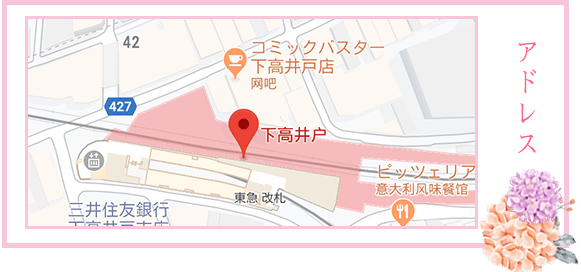
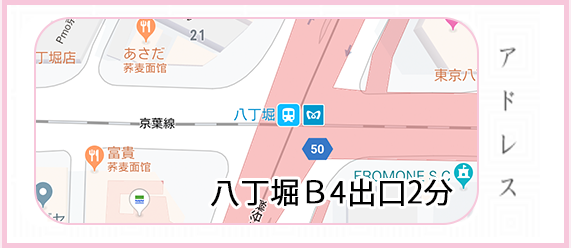
ss
ss

diff --git a/recruit.html b/recruit.html
@@ -1,1 +1,1 @@
-<!DOCTYPE html><html><head><meta charset="utf-8"/><title>嬢熱in下高井戸駅北口2分リラクセーション　マッサージ　メンズエステ　リンパマッサージ【嬢熱】</title><meta name="google-site-verification" content="FlI9ERt2Io3cP8SMRDE0Ayb-Wn86Xue2_c63o4dStGA"/><meta name="keywords" content="嬢熱下高井戸駅北口2分エステ,嬢熱アジア，アロママッサージ,精力回復,ストレス解消,アロマオイル,ボディケア,フットケア"/><meta name="description" content="下高井戸駅北口2分本格アロママッサージ，嬢熱でございます，オイルマッサージで精力を増強します，仕事のストレスを解消いただきます。"/><meta name="viewport" content="width=device-width, initial-scale=1, minimum-scale=1, maximum-scale=1"/><link rel="stylesheet" href="swiper.min.css"/><link rel="stylesheet" href="css/nav_top.css"/></head><body class="body"><div class="nav"><div class="telephone"><a href="tel://07031062233">Tel:070-3106-2233</a></div><div class="navimg" id="nav"></div></div><div class="navLong"><div class="navLongLogo"></div><a href="index.html"><div class="navLong1">ホーム</div></a><a href="system.html"><div class="navLong1">システム</div></a><a href="girl.html"><div class="navLong1">スタッフ</div></a><a href="room.html"><div class="navLong1">店内風景</div></a><a href="access.html"><div class="navLong1">アクセス  </div></a><a href="recruit.html"><div class="navLong1">リクルート</div></a><div class="navLong2"><a href="tel://07031062233">Tel:070-3106-2233</a></div></div><div class="top"><div class="logo"></div><div class="tel" href="tel://09091546417"></div></div><div class="focus" id="focus"></div><div class="navLage"><div class="navButton"><a href="index.html"><img src="img/images/nav_01.png"/></a></div><div class="navButton"><a href="system.html"><img src="img/images/nav_02.png"/></a></div><div class="navButton"><a href="girl.html"><img src="img/images/nav_03.png"/></a></div><div class="navButton"><a href="room.html"><img src="img/images/nav_04.png"/></a></div><div class="navButton"><a href="access.html"><img src="img/images/nav_05.png"/></a></div><div class="navButton"><a href="recruit.html"><img src="img/images/nav_06.png"/></a></div></div></body></html><link rel="stylesheet" href="css/4page.css"/><div class="Titles"><div class="recruittitle"></div></div><div class="recruit"><div><p>業種&nbsp;</p><p>リラクセーション</p></div><div style="height: 115px;"><p>給与&nbsp;</p><p style="height: 80px;">日払い OK!<br/>※高額保証制度有り<br/>ボーナス制度有り</p></div><div><p>時間&nbsp;</p><p>12:00～Last</p></div><div><p>資格&nbsp;</p><p>18歳～30歳位まで</p></div><div><p>勤務日&nbsp;</p><p>自由</p></div><div><p>応募&nbsp;</p><p>お電話の上、お気軽にご来店下さい。</p></div><div style="height: 136px;"><p>待遇&nbsp;</p><p style="height: 103px;">完全全額日払制、高額保証制度有り、個室待機制(TV・冷蔵庫・シャワー完備)、衛生管理万全、ノルマ・罰金一切なし、店内見学&amp;1日体験入店大歓迎</p></div><div><p>電話&nbsp;</p><p>07031062233</p></div></div><div class="endimg"></div><div class="end"><div class="logo"></div><div class="tel"><a href="tel://09091546417"></a></div></div><div class="footing"></div><script src="swiper.min.js"></script><script src="https://cdn.staticfile.org/jquery/1.10.2/jquery.min.js"></script><script src="js/index.js"></script>
+<!DOCTYPE html><html><head><meta charset="utf-8"/><title>嬢熱in八丁堀Ｂ4出口2分リラクセーション　マッサージ　メンズエステ　リンパマッサージ【嬢熱】</title><meta name="keywords" content="嬢熱八丁堀Ｂ4出口2分エステ,嬢熱アジア，アロママッサージ,精力回復,ストレス解消,アロマオイル,ボディケア,フットケア"/><meta name="description" content="八丁堀Ｂ4出口2分本格アロママッサージ，嬢熱でございます，オイルマッサージで精力を増強します，仕事のストレスを解消いただきます。"/><meta name="viewport" content="width=device-width, initial-scale=1, minimum-scale=1, maximum-scale=1"/><link rel="stylesheet" href="swiper.min.css"/><link rel="stylesheet" href="css/nav_top.css"/></head><body class="body"><div class="nav"><div class="telephone"><a href="tel://09091546417">Tel:090-9154-6417</a></div><div class="navimg" id="nav"></div></div><div class="navLong"><div class="navLongLogo"></div><a href="index.html"><div class="navLong1">ホーム</div></a><a href="system.html"><div class="navLong1">システム</div></a><a href="girl.html"><div class="navLong1">スタッフ</div></a><a href="room.html"><div class="navLong1">店内風景</div></a><a href="access.html"><div class="navLong1">アクセス  </div></a><a href="recruit.html"><div class="navLong1">リクルート</div></a><div class="navLong2"><a href="tel://09091546417">Tel:090-9154-6417</a></div></div><div class="top"><div class="logo"></div><div class="tel" href="tel://09091546417"></div></div><div class="focus" id="focus"></div><div class="navLage"><div class="navButton"><a href="index.html"><img src="img/images/nav_01.png"/></a></div><div class="navButton"><a href="system.html"><img src="img/images/nav_02.png"/></a></div><div class="navButton"><a href="girl.html"><img src="img/images/nav_03.png"/></a></div><div class="navButton"><a href="room.html"><img src="img/images/nav_04.png"/></a></div><div class="navButton"><a href="access.html"><img src="img/images/nav_05.png"/></a></div><div class="navButton"><a href="recruit.html"><img src="img/images/nav_06.png"/></a></div></div></body></html><link rel="stylesheet" href="css/4page.css"/><div class="Titles"><div class="recruittitle"></div></div><div class="recruit"><div><p>業種&nbsp;</p><p>リラクセーション</p></div><div style="height: 115px;"><p>給与&nbsp;</p><p style="height: 80px;">日払い OK!<br/>※高額保証制度有り<br/>ボーナス制度有り</p></div><div><p>時間&nbsp;</p><p>12:00～Last</p></div><div><p>資格&nbsp;</p><p>18歳～30歳位まで</p></div><div><p>勤務日&nbsp;</p><p>自由</p></div><div><p>勤務地&nbsp;</p><p></p></div><div><p>応募&nbsp;</p><p>お電話の上、お気軽にご来店下さい。</p></div><div style="height: 136px;"><p>待遇&nbsp;</p><p style="height: 103px;">完全全額日払制、高額保証制度有り、個室待機制(TV・冷蔵庫・シャワー完備)、衛生管理万全、ノルマ・罰金一切なし、店内見学&amp;1日体験入店大歓迎</p></div><div><p>電話&nbsp;</p><p>09091546417</p></div></div><div class="endimg"></div><div class="end"><div class="logo"></div><div class="tel"><a href="tel://09091546417"></a></div></div><div class="footing"></div><script src="swiper.min.js"></script><script src="https://cdn.staticfile.org/jquery/1.10.2/jquery.min.js"></script><script src="js/index.js"></script>

diff --git a/access.html b/access.html
@@ -1,1 +1,1 @@
-<!DOCTYPE html><html><head><meta charset="utf-8"/><title>嬢熱in下高井戸駅北口2分リラクセーション　マッサージ　メンズエステ　リンパマッサージ【嬢熱】</title><meta name="google-site-verification" content="FlI9ERt2Io3cP8SMRDE0Ayb-Wn86Xue2_c63o4dStGA"/><meta name="keywords" content="嬢熱下高井戸駅北口2分エステ,嬢熱アジア，アロママッサージ,精力回復,ストレス解消,アロマオイル,ボディケア,フットケア"/><meta name="description" content="下高井戸駅北口2分本格アロママッサージ，嬢熱でございます，オイルマッサージで精力を増強します，仕事のストレスを解消いただきます。"/><meta name="viewport" content="width=device-width, initial-scale=1, minimum-scale=1, maximum-scale=1"/><link rel="stylesheet" href="swiper.min.css"/><link rel="stylesheet" href="css/nav_top.css"/></head><body class="body"><div class="nav"><div class="telephone"><a href="tel://07031062233">Tel:070-3106-2233</a></div><div class="navimg" id="nav"></div></div><div class="navLong"><div class="navLongLogo"></div><a href="index.html"><div class="navLong1">ホーム</div></a><a href="system.html"><div class="navLong1">システム</div></a><a href="girl.html"><div class="navLong1">スタッフ</div></a><a href="room.html"><div class="navLong1">店内風景</div></a><a href="access.html"><div class="navLong1">アクセス  </div></a><a href="recruit.html"><div class="navLong1">リクルート</div></a><div class="navLong2"><a href="tel://07031062233">Tel:070-3106-2233</a></div></div><div class="top"><div class="logo"></div><div class="tel" href="tel://09091546417"></div></div><div class="focus" id="focus"></div><div class="navLage"><div class="navButton"><a href="index.html"><img src="img/images/nav_01.png"/></a></div><div class="navButton"><a href="system.html"><img src="img/images/nav_02.png"/></a></div><div class="navButton"><a href="girl.html"><img src="img/images/nav_03.png"/></a></div><div class="navButton"><a href="room.html"><img src="img/images/nav_04.png"/></a></div><div class="navButton"><a href="access.html"><img src="img/images/nav_05.png"/></a></div><div class="navButton"><a href="recruit.html"><img src="img/images/nav_06.png"/></a></div></div></body></html><link rel="stylesheet" href="css/4page.css"/><div class="Titles"><div class="accesstitle"></div></div><div class="access"><iframe src="https://www.google.com/maps/embed?pb=!1m18!1m12!1m3!1d1243.4386909312175!2d139.64100223545765!3d35.6660746489538!2m3!1f0!2f0!3f0!3m2!1i1024!2i768!4f13.1!3m3!1m2!1s0x6018f3ae37d4e385%3A0xc7c374c9bcd1d2ac!2z5LiL6auY5LqV5oi3!5e0!3m2!1szh-CN!2sjp!4v1573663862458!5m2!1szh-CN!2sjp" width="600" height="450" frameborder="0" style="border:0;" allowfullscreen=""></iframe><div class="station">下高井戸駅北口2分</div><div class="teleph"><a href="tel://07031062233">070-3106-2233</a></div></div><div class="endimg"></div><div class="end"><div class="logo"></div><div class="tel"><a href="tel://09091546417"></a></div></div><div class="footing"></div><script src="swiper.min.js"></script><script src="https://cdn.staticfile.org/jquery/1.10.2/jquery.min.js"></script><script src="js/index.js"></script>
+<!DOCTYPE html><html><head><meta charset="utf-8"/><title>嬢熱in八丁堀Ｂ4出口2分リラクセーション　マッサージ　メンズエステ　リンパマッサージ【嬢熱】</title><meta name="keywords" content="嬢熱八丁堀Ｂ4出口2分エステ,嬢熱アジア，アロママッサージ,精力回復,ストレス解消,アロマオイル,ボディケア,フットケア"/><meta name="description" content="八丁堀Ｂ4出口2分本格アロママッサージ，嬢熱でございます，オイルマッサージで精力を増強します，仕事のストレスを解消いただきます。"/><meta name="viewport" content="width=device-width, initial-scale=1, minimum-scale=1, maximum-scale=1"/><link rel="stylesheet" href="swiper.min.css"/><link rel="stylesheet" href="css/nav_top.css"/></head><body class="body"><div class="nav"><div class="telephone"><a href="tel://09091546417">Tel:090-9154-6417</a></div><div class="navimg" id="nav"></div></div><div class="navLong"><div class="navLongLogo"></div><a href="index.html"><div class="navLong1">ホーム</div></a><a href="system.html"><div class="navLong1">システム</div></a><a href="girl.html"><div class="navLong1">スタッフ</div></a><a href="room.html"><div class="navLong1">店内風景</div></a><a href="access.html"><div class="navLong1">アクセス  </div></a><a href="recruit.html"><div class="navLong1">リクルート</div></a><div class="navLong2"><a href="tel://09091546417">Tel:090-9154-6417</a></div></div><div class="top"><div class="logo"></div><div class="tel" href="tel://09091546417"></div></div><div class="focus" id="focus"></div><div class="navLage"><div class="navButton"><a href="index.html"><img src="img/images/nav_01.png"/></a></div><div class="navButton"><a href="system.html"><img src="img/images/nav_02.png"/></a></div><div class="navButton"><a href="girl.html"><img src="img/images/nav_03.png"/></a></div><div class="navButton"><a href="room.html"><img src="img/images/nav_04.png"/></a></div><div class="navButton"><a href="access.html"><img src="img/images/nav_05.png"/></a></div><div class="navButton"><a href="recruit.html"><img src="img/images/nav_06.png"/></a></div></div></body></html><link rel="stylesheet" href="css/4page.css"/><div class="Titles"><div class="accesstitle"></div></div><div class="access"><iframe src="https://www.google.com/maps/embed?pb=!1m18!1m12!1m3!1d751.6524276269157!2d139.77641382490816!3d35.674501974517405!2m3!1f0!2f0!3f0!3m2!1i1024!2i768!4f13.1!3m3!1m2!1s0x6018895ecb07b951%3A0xf7218ea42414afb2!2z44CSMTA0LTAwMzIg5Lic5Lqs6YO95Lit5aSu5Yy65YWr5LiB5aCA!5e0!3m2!1szh-CN!2sjp!4v1575224652548!5m2!1szh-CN!2sjp" width="600" height="450" frameborder="0" style="border:0;" allowfullscreen=""></iframe><div class="station">八丁堀Ｂ4出口2分</div><div class="teleph"><a href="tel://09091546417">090-9154-6417</a></div></div><div class="endimg"></div><div class="end"><div class="logo"></div><div class="tel"><a href="tel://09091546417"></a></div></div><div class="footing"></div><script src="swiper.min.js"></script><script src="https://cdn.staticfile.org/jquery/1.10.2/jquery.min.js"></script><script src="js/index.js"></script>

diff --git a/index.html b/index.html
@@ -1,8 +1,6 @@
-<!DOCTYPE html><html><head><meta charset="utf-8"/><title>嬢熱in下高井戸駅北口2分リラクセーション　マッサージ　メンズエステ　リンパマッサージ【嬢熱】</title><meta name="google-site-verification" content="FlI9ERt2Io3cP8SMRDE0Ayb-Wn86Xue2_c63o4dStGA"/><meta name="keywords" content="嬢熱下高井戸駅北口2分エステ,嬢熱アジア，アロママッサージ,精力回復,ストレス解消,アロマオイル,ボディケア,フットケア"/><meta name="description" content="下高井戸駅北口2分本格アロママッサージ，嬢熱でございます，オイルマッサージで精力を増強します，仕事のストレスを解消いただきます。"/><meta name="viewport" content="width=device-width, initial-scale=1, minimum-scale=1, maximum-scale=1"/><link rel="stylesheet" href="swiper.min.css"/><link rel="stylesheet" href="css/nav_top.css"/></head><body class="body"><div class="nav"><div class="telephone"><a href="tel://07031062233">Tel:070-3106-2233</a></div><div class="navimg" id="nav"></div></div><div class="navLong"><div class="navLongLogo"></div><a href="index.html"><div class="navLong1">ホーム</div></a><a href="system.html"><div class="navLong1">システム</div></a><a href="girl.html"><div class="navLong1">スタッフ</div></a><a href="room.html"><div class="navLong1">店内風景</div></a><a href="access.html"><div class="navLong1">アクセス  </div></a><a href="recruit.html"><div class="navLong1">リクルート</div></a><div class="navLong2"><a href="tel://07031062233">Tel:070-3106-2233</a></div></div><div class="top"><div class="logo"></div><div class="tel" href="tel://09091546417"></div></div><div class="focus" id="focus"></div><div class="navLage"><div class="navButton"><a href="index.html"><img src="img/images/nav_01.png"/></a></div><div class="navButton"><a href="system.html"><img src="img/images/nav_02.png"/></a></div><div class="navButton"><a href="girl.html"><img src="img/images/nav_03.png"/></a></div><div class="navButton"><a href="room.html"><img src="img/images/nav_04.png"/></a></div><div class="navButton"><a href="access.html"><img src="img/images/nav_05.png"/></a></div><div class="navButton"><a href="recruit.html"><img src="img/images/nav_06.png"/></a></div></div></body></html><h1>一目惚れin鶴見駅の東口</h1><link rel="stylesheet" href="css/index.css"/><div class="event" id="event"></div><div class="girlPhoto" id="girlPhoto1"><div class="swiper-container"><div class="swiper-wrapper" id="girlPhoto"></div></div></div><div class="newsAndMolir"><div class="news"><div class="newsTitle"></div><div class="newsText"><div class="text" id="catchMynews"></div></div></div><div class="molir"></div></div><div class="map" id="map"></div><div class="endimg"></div><div class="end"><div class="logo"></div><div class="tel"><a href="tel://09091546417"></a></div></div><div class="footing"></div><script src="swiper.min.js"></script><script src="https://cdn.staticfile.org/jquery/1.10.2/jquery.min.js"></script><script src="js/index.js"></script><script src="js/girl.js"></script><script>var swiper = new Swiper('.swiper-container', {
-autoplay: 2000,
-  });
+<!DOCTYPE html><html><head><meta charset="utf-8"/><title>嬢熱in八丁堀Ｂ4出口2分リラクセーション　マッサージ　メンズエステ　リンパマッサージ【嬢熱】</title><meta name="keywords" content="嬢熱八丁堀Ｂ4出口2分エステ,嬢熱アジア，アロママッサージ,精力回復,ストレス解消,アロマオイル,ボディケア,フットケア"/><meta name="description" content="八丁堀Ｂ4出口2分本格アロママッサージ，嬢熱でございます，オイルマッサージで精力を増強します，仕事のストレスを解消いただきます。"/><meta name="viewport" content="width=device-width, initial-scale=1, minimum-scale=1, maximum-scale=1"/><link rel="stylesheet" href="swiper.min.css"/><link rel="stylesheet" href="css/nav_top.css"/></head><body class="body"><div class="nav"><div class="telephone"><a href="tel://09091546417">Tel:090-9154-6417</a></div><div class="navimg" id="nav"></div></div><div class="navLong"><div class="navLongLogo"></div><a href="index.html"><div class="navLong1">ホーム</div></a><a href="system.html"><div class="navLong1">システム</div></a><a href="girl.html"><div class="navLong1">スタッフ</div></a><a href="room.html"><div class="navLong1">店内風景</div></a><a href="access.html"><div class="navLong1">アクセス  </div></a><a href="recruit.html"><div class="navLong1">リクルート</div></a><div class="navLong2"><a href="tel://09091546417">Tel:090-9154-6417</a></div></div><div class="top"><div class="logo"></div><div class="tel" href="tel://09091546417"></div></div><div class="focus" id="focus"></div><div class="navLage"><div class="navButton"><a href="index.html"><img src="img/images/nav_01.png"/></a></div><div class="navButton"><a href="system.html"><img src="img/images/nav_02.png"/></a></div><div class="navButton"><a href="girl.html"><img src="img/images/nav_03.png"/></a></div><div class="navButton"><a href="room.html"><img src="img/images/nav_04.png"/></a></div><div class="navButton"><a href="access.html"><img src="img/images/nav_05.png"/></a></div><div class="navButton"><a href="recruit.html"><img src="img/images/nav_06.png"/></a></div></div></body></html><h1>嬢熱in八丁堀Ｂ4出口2分</h1><link rel="stylesheet" href="css/index.css"/><div class="event" id="event"></div><div class="girlPhoto" id="girlPhoto1"><div class="swiper-container"><div class="swiper-wrapper" id="girlPhoto"></div></div></div><div class="newsAndMolir"><div class="news"><div class="newsTitle"></div><div class="newsText"><div class="text" id="catchMynews"></div></div></div><div class="molir"></div></div><div class="map" id="map"></div><div class="endimg"></div><div class="end"><div class="logo"></div><div class="tel"><a href="tel://09091546417"></a></div></div><div class="footing"></div><script src="swiper.min.js"></script><script src="https://cdn.staticfile.org/jquery/1.10.2/jquery.min.js"></script><script src="js/index.js"></script><script src="js/girl.js"></script>
+<script>
 divHeight(2.0,"focus");
 divHeight(1.2,"girlPhoto1");
 divHeight(1.5,"event");
-divHeight(1.9,"map");
-divHeight(1.3,"line");</script>
+divHeight(1.9,"map");</script>

diff --git a/room.html b/room.html
@@ -1,4 +1,4 @@
-<!DOCTYPE html><html><head><meta charset="utf-8"/><title>嬢熱in下高井戸駅北口2分リラクセーション　マッサージ　メンズエステ　リンパマッサージ【嬢熱】</title><meta name="google-site-verification" content="FlI9ERt2Io3cP8SMRDE0Ayb-Wn86Xue2_c63o4dStGA"/><meta name="keywords" content="嬢熱下高井戸駅北口2分エステ,嬢熱アジア，アロママッサージ,精力回復,ストレス解消,アロマオイル,ボディケア,フットケア"/><meta name="description" content="下高井戸駅北口2分本格アロママッサージ，嬢熱でございます，オイルマッサージで精力を増強します，仕事のストレスを解消いただきます。"/><meta name="viewport" content="width=device-width, initial-scale=1, minimum-scale=1, maximum-scale=1"/><link rel="stylesheet" href="swiper.min.css"/><link rel="stylesheet" href="css/nav_top.css"/></head><body class="body"><div class="nav"><div class="telephone"><a href="tel://07031062233">Tel:070-3106-2233</a></div><div class="navimg" id="nav"></div></div><div class="navLong"><div class="navLongLogo"></div><a href="index.html"><div class="navLong1">ホーム</div></a><a href="system.html"><div class="navLong1">システム</div></a><a href="girl.html"><div class="navLong1">スタッフ</div></a><a href="room.html"><div class="navLong1">店内風景</div></a><a href="access.html"><div class="navLong1">アクセス  </div></a><a href="recruit.html"><div class="navLong1">リクルート</div></a><div class="navLong2"><a href="tel://07031062233">Tel:070-3106-2233</a></div></div><div class="top"><div class="logo"></div><div class="tel" href="tel://09091546417"></div></div><div class="focus" id="focus"></div><div class="navLage"><div class="navButton"><a href="index.html"><img src="img/images/nav_01.png"/></a></div><div class="navButton"><a href="system.html"><img src="img/images/nav_02.png"/></a></div><div class="navButton"><a href="girl.html"><img src="img/images/nav_03.png"/></a></div><div class="navButton"><a href="room.html"><img src="img/images/nav_04.png"/></a></div><div class="navButton"><a href="access.html"><img src="img/images/nav_05.png"/></a></div><div class="navButton"><a href="recruit.html"><img src="img/images/nav_06.png"/></a></div></div></body></html><link rel="stylesheet" href="css/4page.css"/><div class="Titles"><div class="roomtitle"></div></div><div class="room"><div class="swiper-container"><div class="swiper-wrapper"><div class="swiper-slide"><img src="img/r1.jpg"/></div><div class="swiper-slide"><img src="img/r2.jpg"/></div><div class="swiper-slide"><img src="img/r3.jpg"/></div></div><div class="swiper-button-prev"></div>
+<!DOCTYPE html><html><head><meta charset="utf-8"/><title>嬢熱in八丁堀Ｂ4出口2分リラクセーション　マッサージ　メンズエステ　リンパマッサージ【嬢熱】</title><meta name="keywords" content="嬢熱八丁堀Ｂ4出口2分エステ,嬢熱アジア，アロママッサージ,精力回復,ストレス解消,アロマオイル,ボディケア,フットケア"/><meta name="description" content="八丁堀Ｂ4出口2分本格アロママッサージ，嬢熱でございます，オイルマッサージで精力を増強します，仕事のストレスを解消いただきます。"/><meta name="viewport" content="width=device-width, initial-scale=1, minimum-scale=1, maximum-scale=1"/><link rel="stylesheet" href="swiper.min.css"/><link rel="stylesheet" href="css/nav_top.css"/></head><body class="body"><div class="nav"><div class="telephone"><a href="tel://09091546417">Tel:090-9154-6417</a></div><div class="navimg" id="nav"></div></div><div class="navLong"><div class="navLongLogo"></div><a href="index.html"><div class="navLong1">ホーム</div></a><a href="system.html"><div class="navLong1">システム</div></a><a href="girl.html"><div class="navLong1">スタッフ</div></a><a href="room.html"><div class="navLong1">店内風景</div></a><a href="access.html"><div class="navLong1">アクセス  </div></a><a href="recruit.html"><div class="navLong1">リクルート</div></a><div class="navLong2"><a href="tel://09091546417">Tel:090-9154-6417</a></div></div><div class="top"><div class="logo"></div><div class="tel" href="tel://09091546417"></div></div><div class="focus" id="focus"></div><div class="navLage"><div class="navButton"><a href="index.html"><img src="img/images/nav_01.png"/></a></div><div class="navButton"><a href="system.html"><img src="img/images/nav_02.png"/></a></div><div class="navButton"><a href="girl.html"><img src="img/images/nav_03.png"/></a></div><div class="navButton"><a href="room.html"><img src="img/images/nav_04.png"/></a></div><div class="navButton"><a href="access.html"><img src="img/images/nav_05.png"/></a></div><div class="navButton"><a href="recruit.html"><img src="img/images/nav_06.png"/></a></div></div></body></html><link rel="stylesheet" href="css/4page.css"/><div class="Titles"><div class="roomtitle"></div></div><div class="room"><div class="swiper-container"><div class="swiper-wrapper"><div class="swiper-slide"><img src="img/r1.jpg"/></div><div class="swiper-slide"><img src="img/r2.jpg"/></div><div class="swiper-slide"><img src="img/r3.jpg"/></div><div class="swiper-slide"><img src="img/r4.jpg"/></div></div><div class="swiper-button-prev"></div>
 <div class="swiper-button-next"></div></div></div><div class="endimg"></div><div class="end"><div class="logo"></div><div class="tel"><a href="tel://09091546417"></a></div></div><div class="footing"></div><script src="swiper.min.js"></script><script src="https://cdn.staticfile.org/jquery/1.10.2/jquery.min.js"></script><script src="js/index.js"></script><script>var mySwiper = new Swiper('.swiper-container', {
  direction : 'horizontal',
  prevButton:'.swiper-button-prev',

diff --git a/girl.html b/girl.html
@@ -1,1 +1,1 @@
-<!DOCTYPE html><html><head><meta charset="utf-8"/><title>嬢熱in下高井戸駅北口2分リラクセーション　マッサージ　メンズエステ　リンパマッサージ【嬢熱】</title><meta name="google-site-verification" content="FlI9ERt2Io3cP8SMRDE0Ayb-Wn86Xue2_c63o4dStGA"/><meta name="keywords" content="嬢熱下高井戸駅北口2分エステ,嬢熱アジア，アロママッサージ,精力回復,ストレス解消,アロマオイル,ボディケア,フットケア"/><meta name="description" content="下高井戸駅北口2分本格アロママッサージ，嬢熱でございます，オイルマッサージで精力を増強します，仕事のストレスを解消いただきます。"/><meta name="viewport" content="width=device-width, initial-scale=1, minimum-scale=1, maximum-scale=1"/><link rel="stylesheet" href="swiper.min.css"/><link rel="stylesheet" href="css/nav_top.css"/></head><body class="body"><div class="nav"><div class="telephone"><a href="tel://07031062233">Tel:070-3106-2233</a></div><div class="navimg" id="nav"></div></div><div class="navLong"><div class="navLongLogo"></div><a href="index.html"><div class="navLong1">ホーム</div></a><a href="system.html"><div class="navLong1">システム</div></a><a href="girl.html"><div class="navLong1">スタッフ</div></a><a href="room.html"><div class="navLong1">店内風景</div></a><a href="access.html"><div class="navLong1">アクセス  </div></a><a href="recruit.html"><div class="navLong1">リクルート</div></a><div class="navLong2"><a href="tel://07031062233">Tel:070-3106-2233</a></div></div><div class="top"><div class="logo"></div><div class="tel" href="tel://09091546417"></div></div><div class="focus" id="focus"></div><div class="navLage"><div class="navButton"><a href="index.html"><img src="img/images/nav_01.png"/></a></div><div class="navButton"><a href="system.html"><img src="img/images/nav_02.png"/></a></div><div class="navButton"><a href="girl.html"><img src="img/images/nav_03.png"/></a></div><div class="navButton"><a href="room.html"><img src="img/images/nav_04.png"/></a></div><div class="navButton"><a href="access.html"><img src="img/images/nav_05.png"/></a></div><div class="navButton"><a href="recruit.html"><img src="img/images/nav_06.png"/></a></div></div></body></html><link rel="stylesheet" href="css/staff.css"/><div class="Titles"><div class="stafftitle"></div><div id="getMyStaff"></div><script src="js/girl.js"></script><div class="endimg"></div><div class="end"><div class="logo"></div><div class="tel"><a href="tel://09091546417"></a></div></div><div class="footing"></div><script src="swiper.min.js"></script><script src="https://cdn.staticfile.org/jquery/1.10.2/jquery.min.js"></script><script src="js/index.js"></script>
+<!DOCTYPE html><html><head><meta charset="utf-8"/><title>嬢熱in八丁堀Ｂ4出口2分リラクセーション　マッサージ　メンズエステ　リンパマッサージ【嬢熱】</title><meta name="keywords" content="嬢熱八丁堀Ｂ4出口2分エステ,嬢熱アジア，アロママッサージ,精力回復,ストレス解消,アロマオイル,ボディケア,フットケア"/><meta name="description" content="八丁堀Ｂ4出口2分本格アロママッサージ，嬢熱でございます，オイルマッサージで精力を増強します，仕事のストレスを解消いただきます。"/><meta name="viewport" content="width=device-width, initial-scale=1, minimum-scale=1, maximum-scale=1"/><link rel="stylesheet" href="swiper.min.css"/><link rel="stylesheet" href="css/nav_top.css"/></head><body class="body"><div class="nav"><div class="telephone"><a href="tel://09091546417">Tel:090-9154-6417</a></div><div class="navimg" id="nav"></div></div><div class="navLong"><div class="navLongLogo"></div><a href="index.html"><div class="navLong1">ホーム</div></a><a href="system.html"><div class="navLong1">システム</div></a><a href="girl.html"><div class="navLong1">スタッフ</div></a><a href="room.html"><div class="navLong1">店内風景</div></a><a href="access.html"><div class="navLong1">アクセス  </div></a><a href="recruit.html"><div class="navLong1">リクルート</div></a><div class="navLong2"><a href="tel://09091546417">Tel:090-9154-6417</a></div></div><div class="top"><div class="logo"></div><div class="tel" href="tel://09091546417"></div></div><div class="focus" id="focus"></div><div class="navLage"><div class="navButton"><a href="index.html"><img src="img/images/nav_01.png"/></a></div><div class="navButton"><a href="system.html"><img src="img/images/nav_02.png"/></a></div><div class="navButton"><a href="girl.html"><img src="img/images/nav_03.png"/></a></div><div class="navButton"><a href="room.html"><img src="img/images/nav_04.png"/></a></div><div class="navButton"><a href="access.html"><img src="img/images/nav_05.png"/></a></div><div class="navButton"><a href="recruit.html"><img src="img/images/nav_06.png"/></a></div></div></body></html><link rel="stylesheet" href="css/staff.css"/><div class="Titles"><div class="stafftitle"></div><div id="getMyStaff"></div><script src="js/girl.js"></script><div class="endimg"></div><div class="end"><div class="logo"></div><div class="tel"><a href="tel://09091546417"></a></div></div><div class="footing"></div><script src="swiper.min.js"></script><script src="https://cdn.staticfile.org/jquery/1.10.2/jquery.min.js"></script><script src="js/index.js"></script>

diff --git a/system.html b/system.html
@@ -1,1 +1,1 @@
-<!DOCTYPE html><html><head><meta charset="utf-8"/><title>嬢熱in下高井戸駅北口2分リラクセーション　マッサージ　メンズエステ　リンパマッサージ【嬢熱】</title><meta name="google-site-verification" content="FlI9ERt2Io3cP8SMRDE0Ayb-Wn86Xue2_c63o4dStGA"/><meta name="keywords" content="嬢熱下高井戸駅北口2分エステ,嬢熱アジア，アロママッサージ,精力回復,ストレス解消,アロマオイル,ボディケア,フットケア"/><meta name="description" content="下高井戸駅北口2分本格アロママッサージ，嬢熱でございます，オイルマッサージで精力を増強します，仕事のストレスを解消いただきます。"/><meta name="viewport" content="width=device-width, initial-scale=1, minimum-scale=1, maximum-scale=1"/><link rel="stylesheet" href="swiper.min.css"/><link rel="stylesheet" href="css/nav_top.css"/></head><body class="body"><div class="nav"><div class="telephone"><a href="tel://07031062233">Tel:070-3106-2233</a></div><div class="navimg" id="nav"></div></div><div class="navLong"><div class="navLongLogo"></div><a href="index.html"><div class="navLong1">ホーム</div></a><a href="system.html"><div class="navLong1">システム</div></a><a href="girl.html"><div class="navLong1">スタッフ</div></a><a href="room.html"><div class="navLong1">店内風景</div></a><a href="access.html"><div class="navLong1">アクセス  </div></a><a href="recruit.html"><div class="navLong1">リクルート</div></a><div class="navLong2"><a href="tel://07031062233">Tel:070-3106-2233</a></div></div><div class="top"><div class="logo"></div><div class="tel" href="tel://09091546417"></div></div><div class="focus" id="focus"></div><div class="navLage"><div class="navButton"><a href="index.html"><img src="img/images/nav_01.png"/></a></div><div class="navButton"><a href="system.html"><img src="img/images/nav_02.png"/></a></div><div class="navButton"><a href="girl.html"><img src="img/images/nav_03.png"/></a></div><div class="navButton"><a href="room.html"><img src="img/images/nav_04.png"/></a></div><div class="navButton"><a href="access.html"><img src="img/images/nav_05.png"/></a></div><div class="navButton"><a href="recruit.html"><img src="img/images/nav_06.png"/></a></div></div></body></html><link rel="stylesheet" href="css/4page.css"/><div class="system" id="system"></div><div class="endimg"></div><div class="end"><div class="logo"></div><div class="tel"><a href="tel://09091546417"></a></div></div><div class="footing"></div><script src="swiper.min.js"></script><script src="https://cdn.staticfile.org/jquery/1.10.2/jquery.min.js"></script><script src="js/index.js"></script><script>divHeight(0.96,"system");</script>
+<!DOCTYPE html><html><head><meta charset="utf-8"/><title>嬢熱in八丁堀Ｂ4出口2分リラクセーション　マッサージ　メンズエステ　リンパマッサージ【嬢熱】</title><meta name="keywords" content="嬢熱八丁堀Ｂ4出口2分エステ,嬢熱アジア，アロママッサージ,精力回復,ストレス解消,アロマオイル,ボディケア,フットケア"/><meta name="description" content="八丁堀Ｂ4出口2分本格アロママッサージ，嬢熱でございます，オイルマッサージで精力を増強します，仕事のストレスを解消いただきます。"/><meta name="viewport" content="width=device-width, initial-scale=1, minimum-scale=1, maximum-scale=1"/><link rel="stylesheet" href="swiper.min.css"/><link rel="stylesheet" href="css/nav_top.css"/></head><body class="body"><div class="nav"><div class="telephone"><a href="tel://09091546417">Tel:090-9154-6417</a></div><div class="navimg" id="nav"></div></div><div class="navLong"><div class="navLongLogo"></div><a href="index.html"><div class="navLong1">ホーム</div></a><a href="system.html"><div class="navLong1">システム</div></a><a href="girl.html"><div class="navLong1">スタッフ</div></a><a href="room.html"><div class="navLong1">店内風景</div></a><a href="access.html"><div class="navLong1">アクセス  </div></a><a href="recruit.html"><div class="navLong1">リクルート</div></a><div class="navLong2"><a href="tel://09091546417">Tel:090-9154-6417</a></div></div><div class="top"><div class="logo"></div><div class="tel" href="tel://09091546417"></div></div><div class="focus" id="focus"></div><div class="navLage"><div class="navButton"><a href="index.html"><img src="img/images/nav_01.png"/></a></div><div class="navButton"><a href="system.html"><img src="img/images/nav_02.png"/></a></div><div class="navButton"><a href="girl.html"><img src="img/images/nav_03.png"/></a></div><div class="navButton"><a href="room.html"><img src="img/images/nav_04.png"/></a></div><div class="navButton"><a href="access.html"><img src="img/images/nav_05.png"/></a></div><div class="navButton"><a href="recruit.html"><img src="img/images/nav_06.png"/></a></div></div></body></html><link rel="stylesheet" href="css/4page.css"/><div class="system" id="system"></div><div class="endimg"></div><div class="end"><div class="logo"></div><div class="tel"><a href="tel://09091546417"></a></div></div><div class="footing"></div><script src="swiper.min.js"></script><script src="https://cdn.staticfile.org/jquery/1.10.2/jquery.min.js"></script><script src="js/index.js"></script><script>divHeight(0.96,"system");</script>

diff --git a/js/girl.js b/js/girl.js
@@ -19,6 +19,9 @@ fetch(myApi)
    var k = i+i+1
    girlPhoto.innerHTML = '<div class="girlPhotoBigBox"><div class="girlPhotoBox"><img src="https://test-cms-alpha.herokuapp.com'+json[j].avatars[0]+'"> <div class="girlPhotoName"> ' + json[j].name+ '</div></div></div><div class="girlPhotoBigBox"><div class="girlPhotoBox"><img src="https://test-cms-alpha.herokuapp.com'+json[k].avatars[0]+'"><div class="girlPhotoName"> ' + json[k].name+ '</div></div></div>';
    apiList.appendChild(girlPhoto);
+   var swiper = new Swiper('.swiper-container', {
+    autoplay: 2000,
+      });
   }
 })
 .catch(function(error) {
